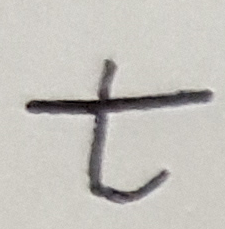
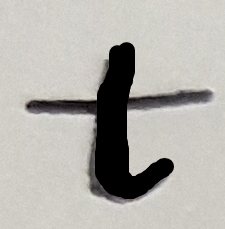
T analyzer part 7 label thickness

Changed region(s): [[0.4044, 0.1834, 0.7778, 0.8865]]

diff --git a/test_tDataExtractor.py b/test_tDataExtractor.py
@@ -8,144 +8,164 @@ class Test_tDataExtractor:
     def test_image1(self):
         data = self.extractData('tImages/t1.png')
         assert data['labelTrend'] == 'vertical'
-        assert data['labelThickness'] == 'constant'
+        assert data['labelThicknessTrend'] == 'constant'
         assert data['crossingLength'] == 'short'
         assert data['crossingPosition'] == 'medium'
+        assert data['labelThickness'] == 'normal'
 
 
     def test_image2(self):
         data = self.extractData('tImages/t2.png')
         assert data['labelTrend'] == 'vertical'
-        assert data['labelThickness'] == 'constant'
+        assert data['labelThicknessTrend'] == 'constant'
         assert data['crossingLength'] == 'long'
         assert data['crossingPosition'] == 'medium'
+        assert data['labelThickness'] == 'normal'
 
     def test_image3(self):
         data = self.extractData('tImages/t3.png')
         assert data['labelTrend'] == 'vertical'
-        assert data['labelThickness'] == 'constant'
+        assert data['labelThicknessTrend'] == 'constant'
         assert data['crossingLength'] == 'long'
         assert data['crossingPosition'] == 'medium'
+        assert data['labelThickness'] == 'thin'
 
 
     def test_image4(self):
         data = self.extractData('tImages/t4.png')
         assert data['labelTrend'] == 'falling'
-        assert data['labelThickness'] == 'constant'
+        assert data['labelThicknessTrend'] == 'constant'
         assert data['crossingLength'] == 'normal'
         assert data['crossingPosition'] == 'medium'
+        assert data['labelThickness'] == 'normal'
 
     def test_image5(self):
         data = self.extractData('tImages/t5.png')
         assert data['labelTrend'] == 'rising'
-        assert data['labelThickness'] == 'constant'
+        assert data['labelThicknessTrend'] == 'constant'
         assert data['crossingLength'] == 'long'
         assert data['crossingPosition'] == 'medium'
+        assert data['labelThickness'] == 'normal'
 
     def test_image6(self):
         data = self.extractData('tImages/t6.png')
         assert data['labelTrend'] == 'vertical'
-        assert data['labelThickness'] == 'constant'
+        assert data['labelThicknessTrend'] == 'constant'
         assert data['crossingLength'] == 'normal'
         assert data['crossingPosition'] == 'high'
+        assert data['labelThickness'] == 'normal'
 
     def test_image7(self):
         data = self.extractData('tImages/t7.png')
         assert data['labelTrend'] == 'vertical'
-        assert data['labelThickness'] == 'constant'
+        assert data['labelThicknessTrend'] == 'constant'
         assert data['crossingLength'] == 'normal'
         assert data['crossingPosition'] == 'medium'
+        assert data['labelThickness'] == 'normal'
 
     def test_image8(self):
         data = self.extractData('tImages/t8.png')
         assert data['labelTrend'] == 'vertical'
-        assert data['labelThickness'] == 'constant'
+        assert data['labelThicknessTrend'] == 'constant'
         assert data['crossingLength'] == 'normal'
         assert data['crossingPosition'] == 'medium'
+        assert data['labelThickness'] == 'normal'
 
     def test_image9(self):
         data = self.extractData('tImages/t9.png')
         assert data['labelTrend'] == 'vertical'
-        assert data['labelThickness'] == 'constant'
+        assert data['labelThicknessTrend'] == 'constant'
         assert data['crossingLength'] == 'normal'
         assert data['crossingPosition'] == 'high'
+        assert data['labelThickness'] == 'normal'
 
     def test_image10(self):
         data = self.extractData('tImages/t10.png')
         assert data['labelTrend'] == 'vertical'
-        assert data['labelThickness'] == 'constant'
+        assert data['labelThicknessTrend'] == 'constant'
         assert data['crossingLength'] == 'normal'
         assert data['crossingPosition'] == 'medium'
+        assert data['labelThickness'] == 'normal'
 
     def test_image11(self):
         data = self.extractData('tImages/t11.png')
         assert data['labelTrend'] == 'vertical'
-        assert data['labelThickness'] == 'constant'
+        assert data['labelThicknessTrend'] == 'constant'
         assert data['crossingLength'] == 'normal'
         assert data['crossingPosition'] == 'medium'
+        assert data['labelThickness'] == 'normal'
 
     def test_image12(self):
         data = self.extractData('tImages/t12.png')
         assert data['labelTrend'] == 'vertical'
-        assert data['labelThickness'] == 'falling'
+        assert data['labelThicknessTrend'] == 'falling'
         assert data['crossingLength'] == 'normal'
         assert data['crossingPosition'] == 'high'
+        assert data['labelThickness'] == 'thick'
 
     def test_image13(self):
         data = self.extractData('tImages/t13.png')
         assert data['labelTrend'] == 'vertical'
-        assert data['labelThickness'] == 'constant'
+        assert data['labelThicknessTrend'] == 'constant'
         assert data['crossingLength'] == 'long'
         assert data['crossingPosition'] == 'medium'
+        assert data['labelThickness'] == 'normal'
 
     def test_image14(self):
         data = self.extractData('tImages/t14.png')
         assert data['labelTrend'] == 'rising'
-        assert data['labelThickness'] == 'constant'
+        assert data['labelThicknessTrend'] == 'constant'
         assert data['crossingLength'] == 'normal'
         assert data['crossingPosition'] == 'medium'
+        assert data['labelThickness'] == 'normal'
 
     def test_image15(self):
         data = self.extractData('tImages/t15.png')
         assert data['labelTrend'] == 'falling'
-        assert data['labelThickness'] == 'constant'
+        assert data['labelThicknessTrend'] == 'constant'
         assert data['crossingLength'] == 'long'
         assert data['crossingPosition'] == 'high'
+        assert data['labelThickness'] == 'thick'
 
     def test_image16(self):
         data = self.extractData('tImages/t16.png')
         assert data['labelTrend'] == 'vertical'
-        assert data['labelThickness'] == 'constant'
+        assert data['labelThicknessTrend'] == 'constant'
         assert data['crossingLength'] == 'long'
         assert data['crossingPosition'] == 'high'
+        assert data['labelThickness'] == 'normal'
 
     def test_image17(self):
         data = self.extractData('tImages/t17.png')
         assert data['labelTrend'] == 'vertical'
-        assert data['labelThickness'] == 'constant'
+        assert data['labelThicknessTrend'] == 'constant'
         assert data['crossingLength'] == 'long'
         assert data['crossingPosition'] == 'medium'
+        assert data['labelThickness'] == 'normal'
 
     def test_image18(self):
         data = self.extractData('tImages/t18.png')
         assert data['labelTrend'] == 'vertical'
-        assert data['labelThickness'] == 'rising'
+        assert data['labelThicknessTrend'] == 'rising'
         assert data['crossingLength'] == 'long'
         assert data['crossingPosition'] == 'medium'
+        assert data['labelThickness'] == 'normal'
 
     def test_image19(self):
         data = self.extractData('tImages/t19.png')
         assert data['labelTrend'] == 'vertical'
-        assert data['labelThickness'] == 'falling'
+        assert data['labelThicknessTrend'] == 'falling'
         assert data['crossingLength'] == 'long'
         assert data['crossingPosition'] == 'high'
+        assert data['labelThickness'] == 'normal'
 
     def test_image20(self):
         data = self.extractData('tImages/t20.png')
         assert data['labelTrend'] == 'vertical'
-        assert data['labelThickness'] == 'falling'
+        assert data['labelThicknessTrend'] == 'falling'
         assert data['crossingLength'] == 'long'
         assert data['crossingPosition'] == 'high'
+        assert data['labelThickness'] == 'thin'
 
     def extractData(self, imageFile):
         img = cv2.imread(imageFile)

diff --git a/tDataExtractor.py b/tDataExtractor.py
@@ -255,7 +255,7 @@ class TDataExtractor:
 
 
 
-    def getLabelThicknessAnalysis(self):
+    def getLabelTrendThicknessAnalysis(self):
         poly = np.polyfit(range(0, len(self.labelThickness)), self.labelThickness, 1)
         # [ 0.21965908  8.96886355] - rosnaca
         # [ -0.08947244  61.56185738] -malejaca
@@ -293,6 +293,28 @@ class TDataExtractor:
                 return "short"
             else:
                 return "long"
+
+    def getLabelThicknessAnalysis(self):
+        stemThickness =np.mean(self.stemThickness)
+
+        validThickness= []
+        for a in self.stemThickness:
+            if a-stemThickness < 20 and a > 10:
+                validThickness.append(a)
+        stemThickness = np.mean(validThickness)
+
+
+        labelThickness= np.mean(self.labelThickness)
+
+        ratio = labelThickness/stemThickness - 1
+        print labelThickness, " ", stemThickness, " ", ratio
+        if(abs(ratio)< 0.3):
+            return "normal"
+        else:
+            if ratio>0:
+                return "thick"
+            else:
+                return "thin"
 
     def getCrossingPositionAnalysis(self):
 
@@ -341,9 +363,10 @@ class TDataExtractor:
 
         self.drawAll()
         self.analysis["labelTrend"] = self.getLabelTrend()
-        self.analysis["labelThickness"] = self.getLabelThicknessAnalysis()
+        self.analysis["labelThicknessTrend"] = self.getLabelTrendThicknessAnalysis()
         self.analysis["crossingLength"] = self.getCrossingLengthAnalysis()
         self.analysis["crossingPosition"] = self.getCrossingPositionAnalysis()
+        self.analysis["labelThickness"] = self.getLabelThicknessAnalysis()
 
     def drawAll(self):
         self.drawPoints(self.topEdgeLabel, Colors.blue)
@@ -368,7 +391,7 @@ class TDataExtractor:
 
 if __name__ == '__main__':
 
-    for i in range(9,10):
+    for i in range(1,21):
         img = cv2.imread('tImages/t' + str(i) + '.png')
 
         extractor = TDataExtractor(img)
